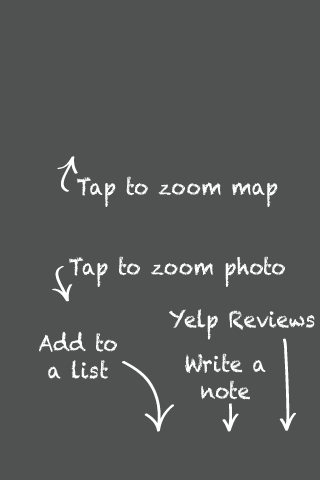
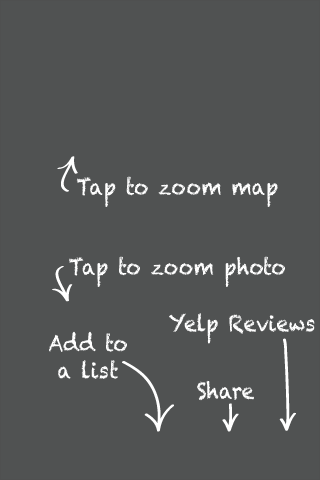
moved notes to list, fixed crash on empty list maps

diff --git a/MealTime/SavedViewController.m b/MealTime/SavedViewController.m
@@ -15,6 +15,7 @@
 #import "PSDatabaseCenter.h"
 #import "PSOverlayImageView.h"
 #import "MapViewController.h"
+#import "NoteViewController.h"
 
 @interface SavedViewController (Private)
 
@@ -23,6 +24,7 @@
 - (void)sort;
 - (void)rename;
 - (void)showMap;
+- (void)showNotes;
 
 @end
 
@@ -80,16 +82,16 @@
   [_cellCache makeObjectsPerformSelector:@selector(resumeAnimations)];
   
   // NUX
-  if (![[NSUserDefaults standardUserDefaults] boolForKey:@"hasShownSavedOverlay"]) {
-    [[NSUserDefaults standardUserDefaults] setBool:YES forKey:@"hasShownSavedOverlay"];
-    NSString *imgName = isDeviceIPad() ? @"nux_overlay_saved_pad.png" : @"nux_overlay_saved.png";
-    PSOverlayImageView *nuxView = [[[PSOverlayImageView alloc] initWithImage:[UIImage imageNamed:imgName]] autorelease];
-    nuxView.alpha = 0.0;
-    [[UIApplication sharedApplication].keyWindow addSubview:nuxView];
-    [UIView animateWithDuration:0.4 animations:^{
-      nuxView.alpha = 1.0;
-    }];
-  }
+//  if (![[NSUserDefaults standardUserDefaults] boolForKey:@"hasShownSavedOverlay"]) {
+//    [[NSUserDefaults standardUserDefaults] setBool:YES forKey:@"hasShownSavedOverlay"];
+//    NSString *imgName = isDeviceIPad() ? @"nux_overlay_saved_pad.png" : @"nux_overlay_saved.png";
+//    PSOverlayImageView *nuxView = [[[PSOverlayImageView alloc] initWithImage:[UIImage imageNamed:imgName]] autorelease];
+//    nuxView.alpha = 0.0;
+//    [[UIApplication sharedApplication].keyWindow addSubview:nuxView];
+//    [UIView animateWithDuration:0.4 animations:^{
+//      nuxView.alpha = 1.0;
+//    }];
+//  }
 }
 
 - (void)viewWillDisappear:(BOOL)animated {
@@ -106,6 +108,15 @@
 
 - (void)loadView {
   [super loadView];
+  
+  NSString *query = @"SELECT notes FROM lists WHERE sid = ?";
+  EGODatabaseResult *res = [[[PSDatabaseCenter defaultCenter] database] executeQueryWithParameters:query, _sid, nil];
+  NSString *savedNote = [[[res rows] lastObject] stringForColumn:@"notes"];
+  if ([savedNote length] > 0) {
+    _hasNotes = YES;
+  } else {
+    _hasNotes = NO;
+  }
   
   self.view.backgroundColor = [UIColor blackColor];
   self.navigationItem.leftBarButtonItem = [UIBarButtonItem navBackButtonWithTarget:self action:@selector(back)];
@@ -135,21 +146,27 @@
 }
 
 - (void)setupToolbar {
-  CGFloat tabWidth = isDeviceIPad() ? 256 : 106;
+  CGFloat tabWidth = isDeviceIPad() ? 192 : 80;
   
   _tabView = [[UIView alloc] initWithFrame:CGRectMake(0, 0, self.view.width, 49.0)];
   
-  UIButton *sort = [UIButton buttonWithFrame:CGRectMake(0, 0, tabWidth, 49) andStyle:@"detailTab" target:self action:@selector(sort)];
-  [sort setBackgroundImage:[UIImage stretchableImageNamed:@"tab_btn_left.png" withLeftCapWidth:8 topCapWidth:0] forState:UIControlStateNormal];
+  NSString *notesIcon = _hasNotes ? @"icon_tab_notepad_selected.png" : @"icon_tab_notepad.png";
+  UIButton *notes = [UIButton buttonWithFrame:CGRectMake(0, 0, tabWidth, 49) andStyle:@"detailTab" target:self action:@selector(showNotes)];
+  [notes setBackgroundImage:[UIImage stretchableImageNamed:@"tab_btn_left.png" withLeftCapWidth:9 topCapWidth:0] forState:UIControlStateNormal];
+  [notes setImage:[UIImage imageNamed:notesIcon] forState:UIControlStateNormal];
+  [_tabView addSubview:notes];
+  
+  UIButton *sort = [UIButton buttonWithFrame:CGRectMake(tabWidth, 0, tabWidth, 49) andStyle:@"detailTab" target:self action:@selector(sort)];
+  [sort setBackgroundImage:[UIImage stretchableImageNamed:@"tab_btn_center.png" withLeftCapWidth:8 topCapWidth:0] forState:UIControlStateNormal];
   [sort setImage:[UIImage imageNamed:@"icon_tab_sort.png"] forState:UIControlStateNormal];
   [_tabView addSubview:sort];
   
-  UIButton *share = [UIButton buttonWithFrame:CGRectMake(tabWidth, 0, _tabView.width - (tabWidth * 2), 49) andStyle:@"detailTab" target:self action:@selector(share)];
+  UIButton *share = [UIButton buttonWithFrame:CGRectMake(tabWidth * 2, 0, tabWidth, 49) andStyle:@"detailTab" target:self action:@selector(share)];
   [share setBackgroundImage:[UIImage stretchableImageNamed:@"tab_btn_center.png" withLeftCapWidth:8 topCapWidth:0] forState:UIControlStateNormal];
   [share setImage:[UIImage imageNamed:@"icon_tab_envelope.png"] forState:UIControlStateNormal];
   [_tabView addSubview:share];
   
-  UIButton *rename = [UIButton buttonWithFrame:CGRectMake(_tabView.width - tabWidth, 0, tabWidth, 49) andStyle:@"detailTab" target:self action:@selector(rename)];
+  UIButton *rename = [UIButton buttonWithFrame:CGRectMake(tabWidth * 3, 0, tabWidth, 49) andStyle:@"detailTab" target:self action:@selector(rename)];
   [rename setBackgroundImage:[UIImage stretchableImageNamed:@"tab_btn_right.png" withLeftCapWidth:8 topCapWidth:0] forState:UIControlStateNormal];
   [rename setImage:[UIImage imageNamed:@"icon_tab_rename.png"] forState:UIControlStateNormal];
   [_tabView addSubview:rename];
@@ -165,17 +182,35 @@
 //  
 //  [_toolbar setItems:toolbarItems];
 //  [self setupFooterWithView:_toolbar];
+  
+
+}
+
+- (void)showNotes {  
+  [[LocalyticsSession sharedLocalyticsSession] tagEvent:@"saved#showNotes"];
+  
+  NoteViewController *nvc = [[NoteViewController alloc] initWithListSid:_sid];
+  UINavigationController *nnc = [[UINavigationController alloc] initWithRootViewController:nvc];
+  [self presentModalViewController:nnc animated:YES];
+  [nvc release];
+  [nnc release];
 }
 
 - (void)showMap {
 //  UIAlertView *av = [[[UIAlertView alloc] initWithTitle:@"Coming Soon" message:@"Map Mode Coming Soon" delegate:nil cancelButtonTitle:@"Okay" otherButtonTitles:nil] autorelease];
 //  [av show];
   
-  [[LocalyticsSession sharedLocalyticsSession] tagEvent:@"saved#showMap"];
-  
-  MapViewController *mvc = [[MapViewController alloc] initWithPlaces:[self.items objectAtIndex:0]];
-  [self.navigationController pushViewController:mvc animated:YES];
-  [mvc release];
+  if ([self dataIsAvailable]) {
+    [[LocalyticsSession sharedLocalyticsSession] tagEvent:@"saved#showMap"];
+    
+    MapViewController *mvc = [[MapViewController alloc] initWithPlaces:[self.items objectAtIndex:0]];
+    [self.navigationController pushViewController:mvc animated:YES];
+    [mvc release];
+  } else {
+    UIAlertView *av = [[[UIAlertView alloc] initWithTitle:@"Whoops" message:@"Need something in this list first." delegate:nil cancelButtonTitle:@"Ok" otherButtonTitles:nil] autorelease];
+    [av show];
+    return;
+  }
 }
 
 - (void)rename {

diff --git a/MealTime/DetailViewController.m b/MealTime/DetailViewController.m
@@ -16,7 +16,6 @@
 #import "PSDatabaseCenter.h"
 #import "PSOverlayImageView.h"
 #import "ListViewController.h"
-#import "NoteViewController.h"
 #import "PSMailCenter.h"
 
 @interface DetailViewController (Private)
@@ -33,7 +32,6 @@
 - (void)share;
 - (void)directions;
 - (void)showLists;
-- (void)showNotes;
 
 @end
 
@@ -47,17 +45,7 @@
     if (cachedPlace) {
       _isCachedPlace = YES;
       _place = [cachedPlace retain];
-      
-      NSString *query = @"SELECT note FROM places WHERE biz = ?";
-      EGODatabaseResult *res = [[[PSDatabaseCenter defaultCenter] database] executeQueryWithParameters:query, [_place objectForKey:@"biz"], nil];
-      NSString *savedNote = [[[res rows] lastObject] stringForColumn:@"note"];
-      if ([savedNote length] > 0) {
-        _hasNote = YES;
-      } else {
-        _hasNote = NO;
-      }
     } else {
-      _hasNote = NO;
       _isCachedPlace = NO;
       _place = [[NSMutableDictionary alloc] initWithDictionary:place];
     }
@@ -148,7 +136,7 @@
   
   self.navigationItem.leftBarButtonItem = [UIBarButtonItem navBackButtonWithTarget:self action:@selector(back)];
   
-  self.navigationItem.rightBarButtonItem = [UIBarButtonItem barButtonWithImage:[UIImage imageNamed:@"icon_nav_share.png"] withTarget:self action:@selector(share) width:40 height:30 buttonType:BarButtonTypeNormal];
+//  self.navigationItem.rightBarButtonItem = [UIBarButtonItem barButtonWithImage:[UIImage imageNamed:@"icon_nav_share.png"] withTarget:self action:@selector(share) width:40 height:30 buttonType:BarButtonTypeNormal];
   
   // Nullview
   [_nullView setLoadingTitle:@"Loading..."];
@@ -294,11 +282,10 @@
   [list setImage:[UIImage imageNamed:@"icon_tab_list.png"] forState:UIControlStateNormal];
   [_tabView addSubview:list];
   
-  NSString *noteIcon = _hasNote ? @"icon_tab_notepad_selected.png" : @"icon_tab_notepad.png";
-  UIButton *notes = [UIButton buttonWithFrame:CGRectMake(_tabView.width - (tabWidth * 2), 0, tabWidth, 49) andStyle:@"detailTab" target:self action:@selector(showNotes)];
-  [notes setBackgroundImage:[UIImage stretchableImageNamed:@"tab_btn_center.png" withLeftCapWidth:9 topCapWidth:0] forState:UIControlStateNormal];
-  [notes setImage:[UIImage imageNamed:noteIcon] forState:UIControlStateNormal];
-  [_tabView addSubview:notes];
+  UIButton *share = [UIButton buttonWithFrame:CGRectMake(_tabView.width - (tabWidth * 2), 0, tabWidth, 49) andStyle:@"detailTab" target:self action:@selector(share)];
+  [share setBackgroundImage:[UIImage stretchableImageNamed:@"tab_btn_center.png" withLeftCapWidth:9 topCapWidth:0] forState:UIControlStateNormal];
+  [share setImage:[UIImage imageNamed:@"icon_tab_envelope.png"] forState:UIControlStateNormal];
+  [_tabView addSubview:share];
   
   UIButton *yelp = [UIButton buttonWithFrame:CGRectMake(_tabView.width - tabWidth, 0, tabWidth, 49) andStyle:@"detailTab" target:self action:@selector(yelp)];
   [yelp setBackgroundImage:[UIImage stretchableImageNamed:@"tab_btn_right.png" withLeftCapWidth:9 topCapWidth:0] forState:UIControlStateNormal];
@@ -322,16 +309,6 @@
 }
 
 #pragma mark - Actions
-- (void)showNotes {
-  [[LocalyticsSession sharedLocalyticsSession] tagEvent:@"detail#showNotes"];
-  
-  NoteViewController *nvc = [[NoteViewController alloc] initWithPlace:_place];
-  UINavigationController *nnc = [[UINavigationController alloc] initWithRootViewController:nvc];
-  [self presentModalViewController:nnc animated:YES];
-  [nvc release];
-  [nnc release];
-}
-
 - (void)showLists {
   [[LocalyticsSession sharedLocalyticsSession] tagEvent:@"detail#showLists"];
   

diff --git a/MealTime/NoteViewController.m b/MealTime/NoteViewController.m
@@ -16,10 +16,10 @@
 
 @implementation NoteViewController
 
-- (id)initWithPlace:(NSDictionary *)place {
+- (id)initWithListSid:(NSString *)sid {
   self = [super initWithNibName:nil bundle:nil];
   if (self) {
-    _place = [[NSMutableDictionary alloc] initWithDictionary:place];
+    _sid = [sid copy];
     
     [[NSNotificationCenter defaultCenter] addObserver:self selector:@selector(keyboardWillShow:) name:UIKeyboardWillShowNotification object:nil];
     [[NSNotificationCenter defaultCenter] addObserver:self selector:@selector(keyboardWillHide:) name:UIKeyboardWillHideNotification object:nil];
@@ -34,7 +34,7 @@
 }
 
 - (void)dealloc {
-  RELEASE_SAFELY(_place);
+  RELEASE_SAFELY(_sid);
   
   RELEASE_SAFELY(_noteView);
   
@@ -73,9 +73,9 @@
   [self.view addSubview:_noteView];
   
   // Set Note saved text
-  NSString *query = @"SELECT note FROM places WHERE biz = ?";
-  EGODatabaseResult *res = [[[PSDatabaseCenter defaultCenter] database] executeQueryWithParameters:query, [_place objectForKey:@"biz"], nil];
-  NSString *savedNote = [[[res rows] lastObject] stringForColumn:@"note"];
+  NSString *query = @"SELECT notes FROM lists WHERE sid = ?";
+  EGODatabaseResult *res = [[[PSDatabaseCenter defaultCenter] database] executeQueryWithParameters:query, _sid, nil];
+  NSString *savedNote = [[[res rows] lastObject] stringForColumn:@"notes"];
   if ([savedNote length] > 0) {
     _noteView.text = savedNote;
   }
@@ -85,8 +85,8 @@
 
 - (void)dismiss {
   // Save the note to the DB
-  NSString *query = @"UPDATE places SET note = ? WHERE biz = ?";
-  [[[PSDatabaseCenter defaultCenter] database] executeQueryWithParameters:query, _noteView.text, [_place objectForKey:@"biz"], nil];
+  NSString *query = @"UPDATE lists SET notes = ? WHERE sid = ?";
+  [[[PSDatabaseCenter defaultCenter] database] executeQueryWithParameters:query, _noteView.text, _sid, nil];
   
   [self dismissModalViewControllerAnimated:YES];
 }

diff --git a/MealTime/NoteViewController.h b/MealTime/NoteViewController.h
@@ -11,11 +11,11 @@
 #import "PSTextView.h"
 
 @interface NoteViewController : PSBaseViewController {
-  NSMutableDictionary *_place;
+  NSString *_sid;
   PSTextView *_noteView;
 }
 
-- (id)initWithPlace:(NSDictionary *)place;
+- (id)initWithListSid:(NSString *)sid;
 - (void)moveTextViewForKeyboard:(NSNotification*)aNotification up:(BOOL)up;
 
 @end

diff --git a/MealTime/Constants.h b/MealTime/Constants.h
@@ -22,7 +22,7 @@
 
 //#define USE_FIXTURES 1
 //#define SHOULD_RESET_SQLITE
-#define SCHEMA_VERSION @"9"
+#define SCHEMA_VERSION @"11"
 
 // Core Data (From PSConstants.h)
 #define CORE_DATA_SQL_FILE @"spotlight.sqlite"

diff --git a/MealTime/SavedViewController.h b/MealTime/SavedViewController.h
@@ -17,6 +17,8 @@
   NSString *_sortDirection;
   
   UIView *_tabView;
+  
+  BOOL _hasNotes;
 }
 
 @property (nonatomic, retain) NSString *sortOrder;

diff --git a/MealTime/DetailViewController.h b/MealTime/DetailViewController.h
@@ -29,7 +29,6 @@
   
   NSDate *_cachedTimestamp;
   BOOL _isCachedPlace;
-  BOOL _hasNote;
 }
 
 - (id)initWithPlace:(NSDictionary *)place;
